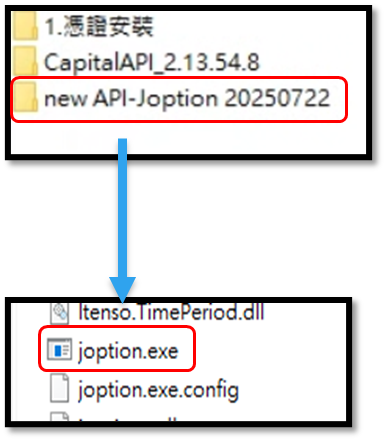
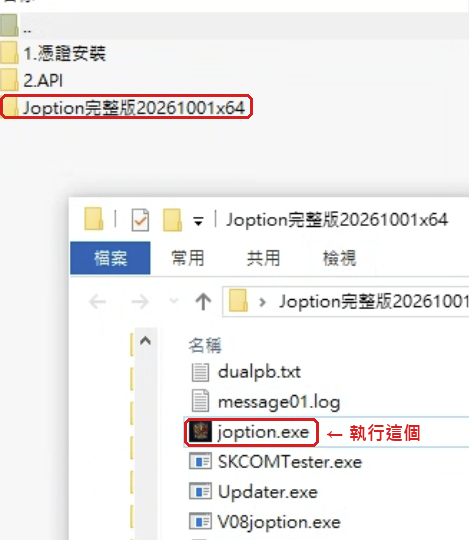
Replace the joption.exe screenshot with the 20261001 x64 folder

diff --git a/content/選單/群益安裝說明.md b/content/選單/群益安裝說明.md
@@ -97,7 +97,7 @@ Joption 不需要安裝程式，解壓縮後就能直接執行。
 
 2. 執行裡面的 **Joption.exe**。
 
-![資料夾裡的 joption.exe（畫面為舊版資料夾名稱）](/images/群益安裝說明/12.png)
+![進入 Joption完整版20261001x64 資料夾，執行 joption.exe](/images/群益安裝說明/12.png)
 
 3. 第一次啟動時，會依序跳出三個視窗：**身分證字號 → 密碼 → 註冊碼（金鑰）**。這一步只有第一次需要，註冊碼請向群益期貨營業員索取。
 
